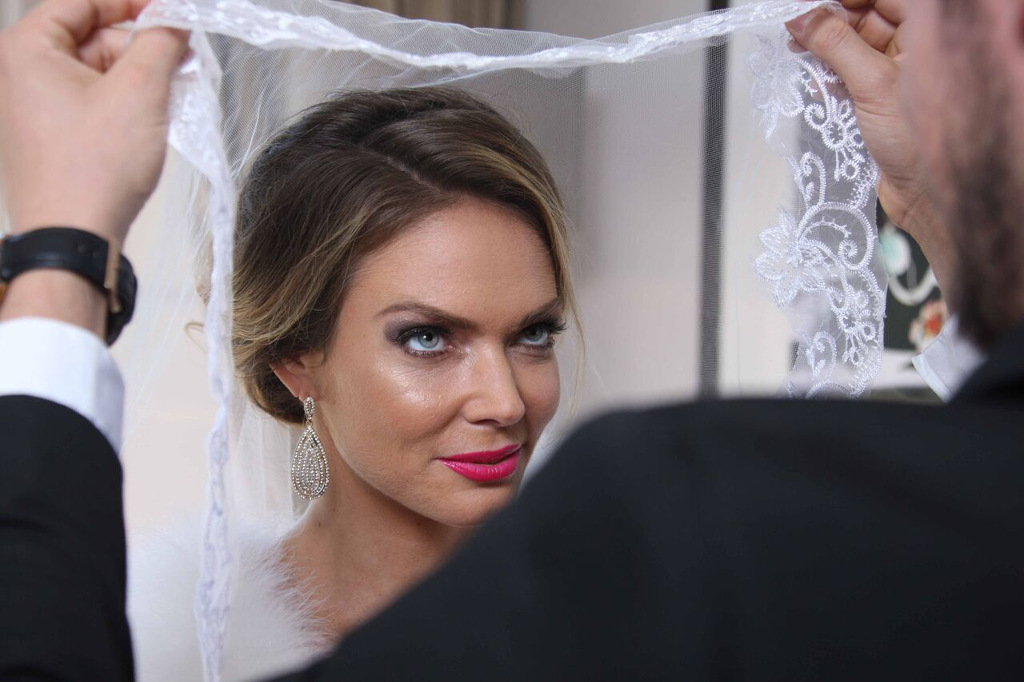
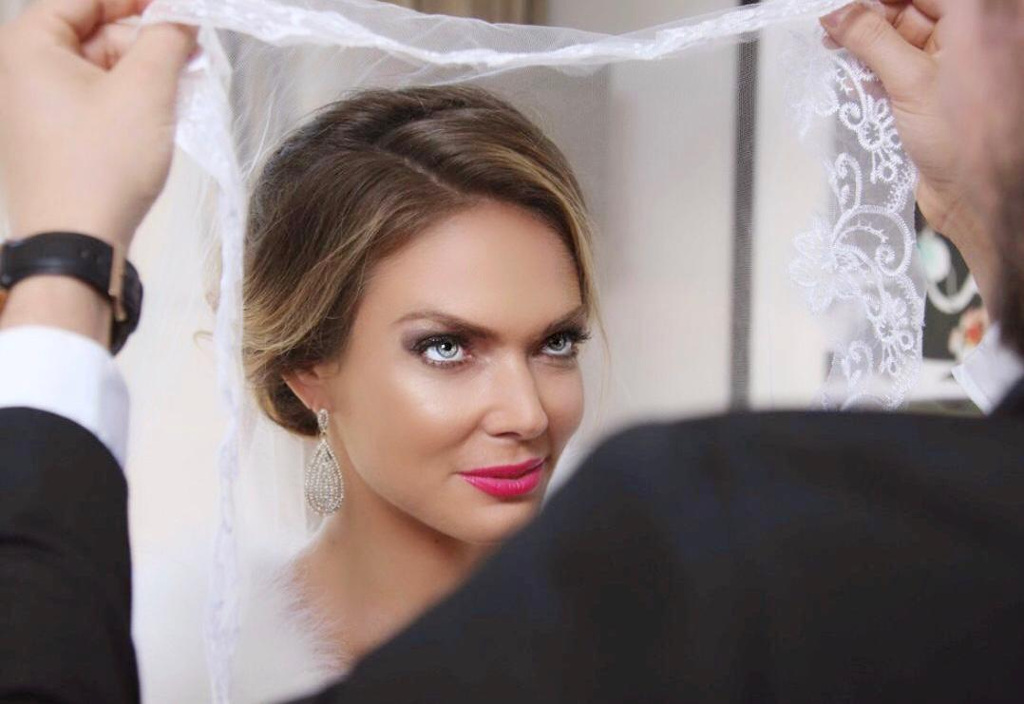
Adds new re-touched images

diff --git a/src/globals.ts b/src/globals.ts
@@ -269,6 +269,11 @@ export const bridesGalleryDefinitions = [
     thumbnailImage: '24c.jpg',
     caption: 'Simona 2018 2',
     size: '681x1021'
+  }, {
+    mainImage: '25a.jpg',
+    thumbnailImage: '25c.jpg',
+    caption: 'Yaasmin 2019 1',
+    size: '683x1024'
   }
 ];
 
